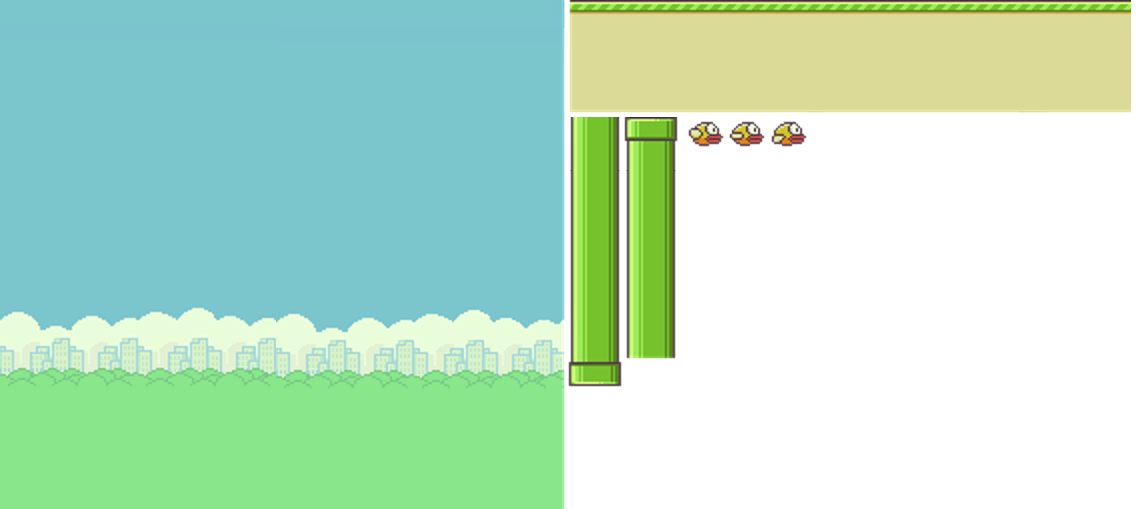
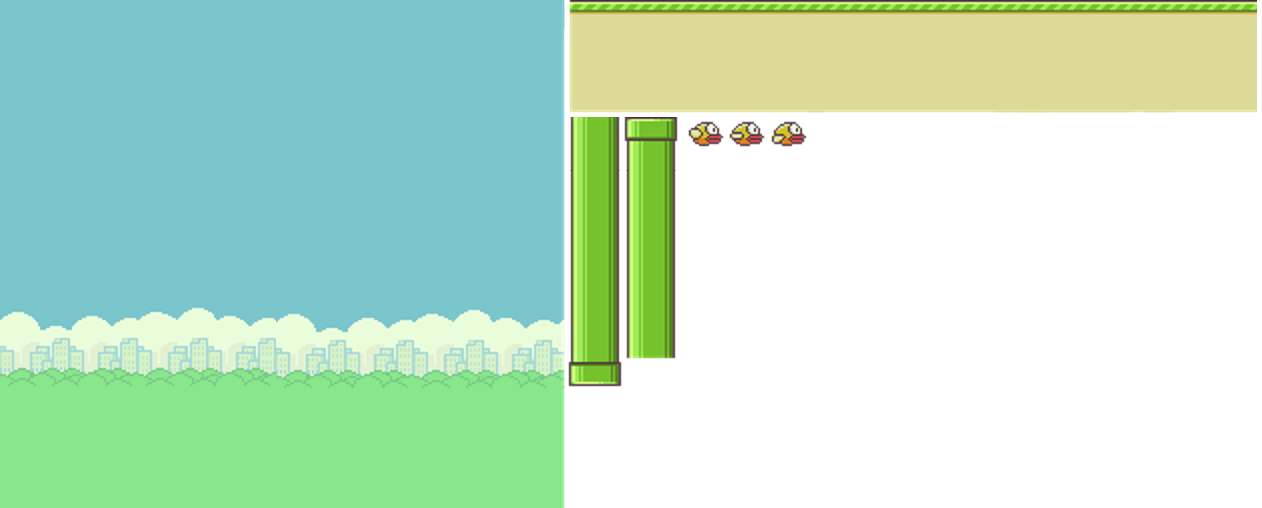
Scene

diff --git a/scenewidget.cpp b/scenewidget.cpp
@@ -1,0 +1,37 @@
+#include <QPainter>
+#include "scenewidget.h"
+#include "common.h"
+
+SceneWidget::SceneWidget(QWidget *parent) : QWidget(parent) {
+    Common *c = Common::getInstance();
+
+    fond = c->getSpriteImage(Common::estFond);
+    sol = c->getSpriteImage(Common::estSol);
+
+    timerSol = new QTimer(this);
+    timerSol->setInterval(20);
+    connect(timerSol, SIGNAL(timeout()), this, SLOT(onTimerSol()));
+    timerSol->start();
+
+    xSol = 0;
+
+
+}
+
+SceneWidget::~SceneWidget() {
+    timerSol->stop();
+    delete timerSol;
+}
+
+void SceneWidget::paintEvent(QPaintEvent *) {
+    QPainter painter(this);
+
+    painter.drawImage(QPoint(0, 0), fond, QRect(0, 0, fond.width(), fond.height()));
+    painter.drawImage(QRect(0, height()-sol.height(), width(), sol.height()), sol, QRect(xSol, 0, width(), sol.height()));
+}
+
+void SceneWidget::onTimerSol() {
+    xSol = (xSol + 1) % SOL_OFFSET;
+
+    repaint();
+}

diff --git a/common.cpp b/common.cpp
@@ -21,15 +21,16 @@ Common::Common() {
 
     fond.rects.append(QRect(0, 0, 563, 510));
 
-    sol.rects.append(QRect(569, 0, 563, 111));
+    sol.rects.append(QRect(570, 0, 686, 110));
 
     flappy.rects.append(QRect(688, 121, 35, 25));
     flappy.rects.append(QRect(729, 121, 35, 25));
     flappy.rects.append(QRect(771, 121, 35, 25));
+    flappy.rects.append(QRect(729, 121, 35, 25));
 
-    tuyauHaut.rects.append(QRect(568, 117, 322, 510));
+    tuyauHaut.rects.append(QRect(568, 117, 53, 269));
 
-    tuyauBas.rects.append(QRect(624, 117, 241, 510));
+    tuyauBas.rects.append(QRect(624, 117, 53, 240));
 
     sprites.insert(Common::estFond, fond);
     sprites.insert(Common::estSol, sol);

diff --git a/mainwindow.cpp b/mainwindow.cpp
@@ -5,7 +5,7 @@ MainWindow::MainWindow(QWidget *parent) : QMainWindow(parent) {
     setupUi(this);
 
     timer=new QTimer(this);
-    timer->setInterval(100);
+    timer->setInterval(50);
     connect(timer, SIGNAL(timeout()), this, SLOT(onTimer()));
     timer->start();
 }
@@ -14,10 +14,4 @@ MainWindow::~MainWindow() {
 }
 
 void MainWindow::onTimer() {
-    static int flappyIdx = 0;
-    Common *c = Common::getInstance();
-
-    label->setPixmap(QPixmap::fromImage(c->getSpriteImage(Common::estFlappy, flappyIdx)));
-
-    flappyIdx = (flappyIdx + 1) % c->getNbSpriteImage(Common::estFlappy);
 }

diff --git a/scenewidget.h b/scenewidget.h
@@ -1,0 +1,28 @@
+#ifndef SCENEWIDGET_H
+#define SCENEWIDGET_H
+
+#include <QWidget>
+#include <QTimer>
+
+#define SOL_OFFSET      13
+
+class SceneWidget : public QWidget {
+    Q_OBJECT
+public:
+    explicit SceneWidget(QWidget *parent = nullptr);
+    ~SceneWidget();
+
+protected:
+    virtual void paintEvent(QPaintEvent *);
+
+private:
+    QImage fond;
+    QImage sol;
+    QTimer *timerSol;
+    int xSol;
+
+private slots:
+    void onTimerSol();
+};
+
+#endif // SCENEWIDGET_H

diff --git a/common.h b/common.h
@@ -14,7 +14,7 @@ public:
 
     static Common * getInstance();
     QImage getSpritesImage();
-    QImage getSpriteImage(const ESpriteType& type, int idx) const;
+    QImage getSpriteImage(const ESpriteType& type, int idx = 0) const;
     int getNbSpriteImage(const ESpriteType& type) const;
 private:
     Common();
